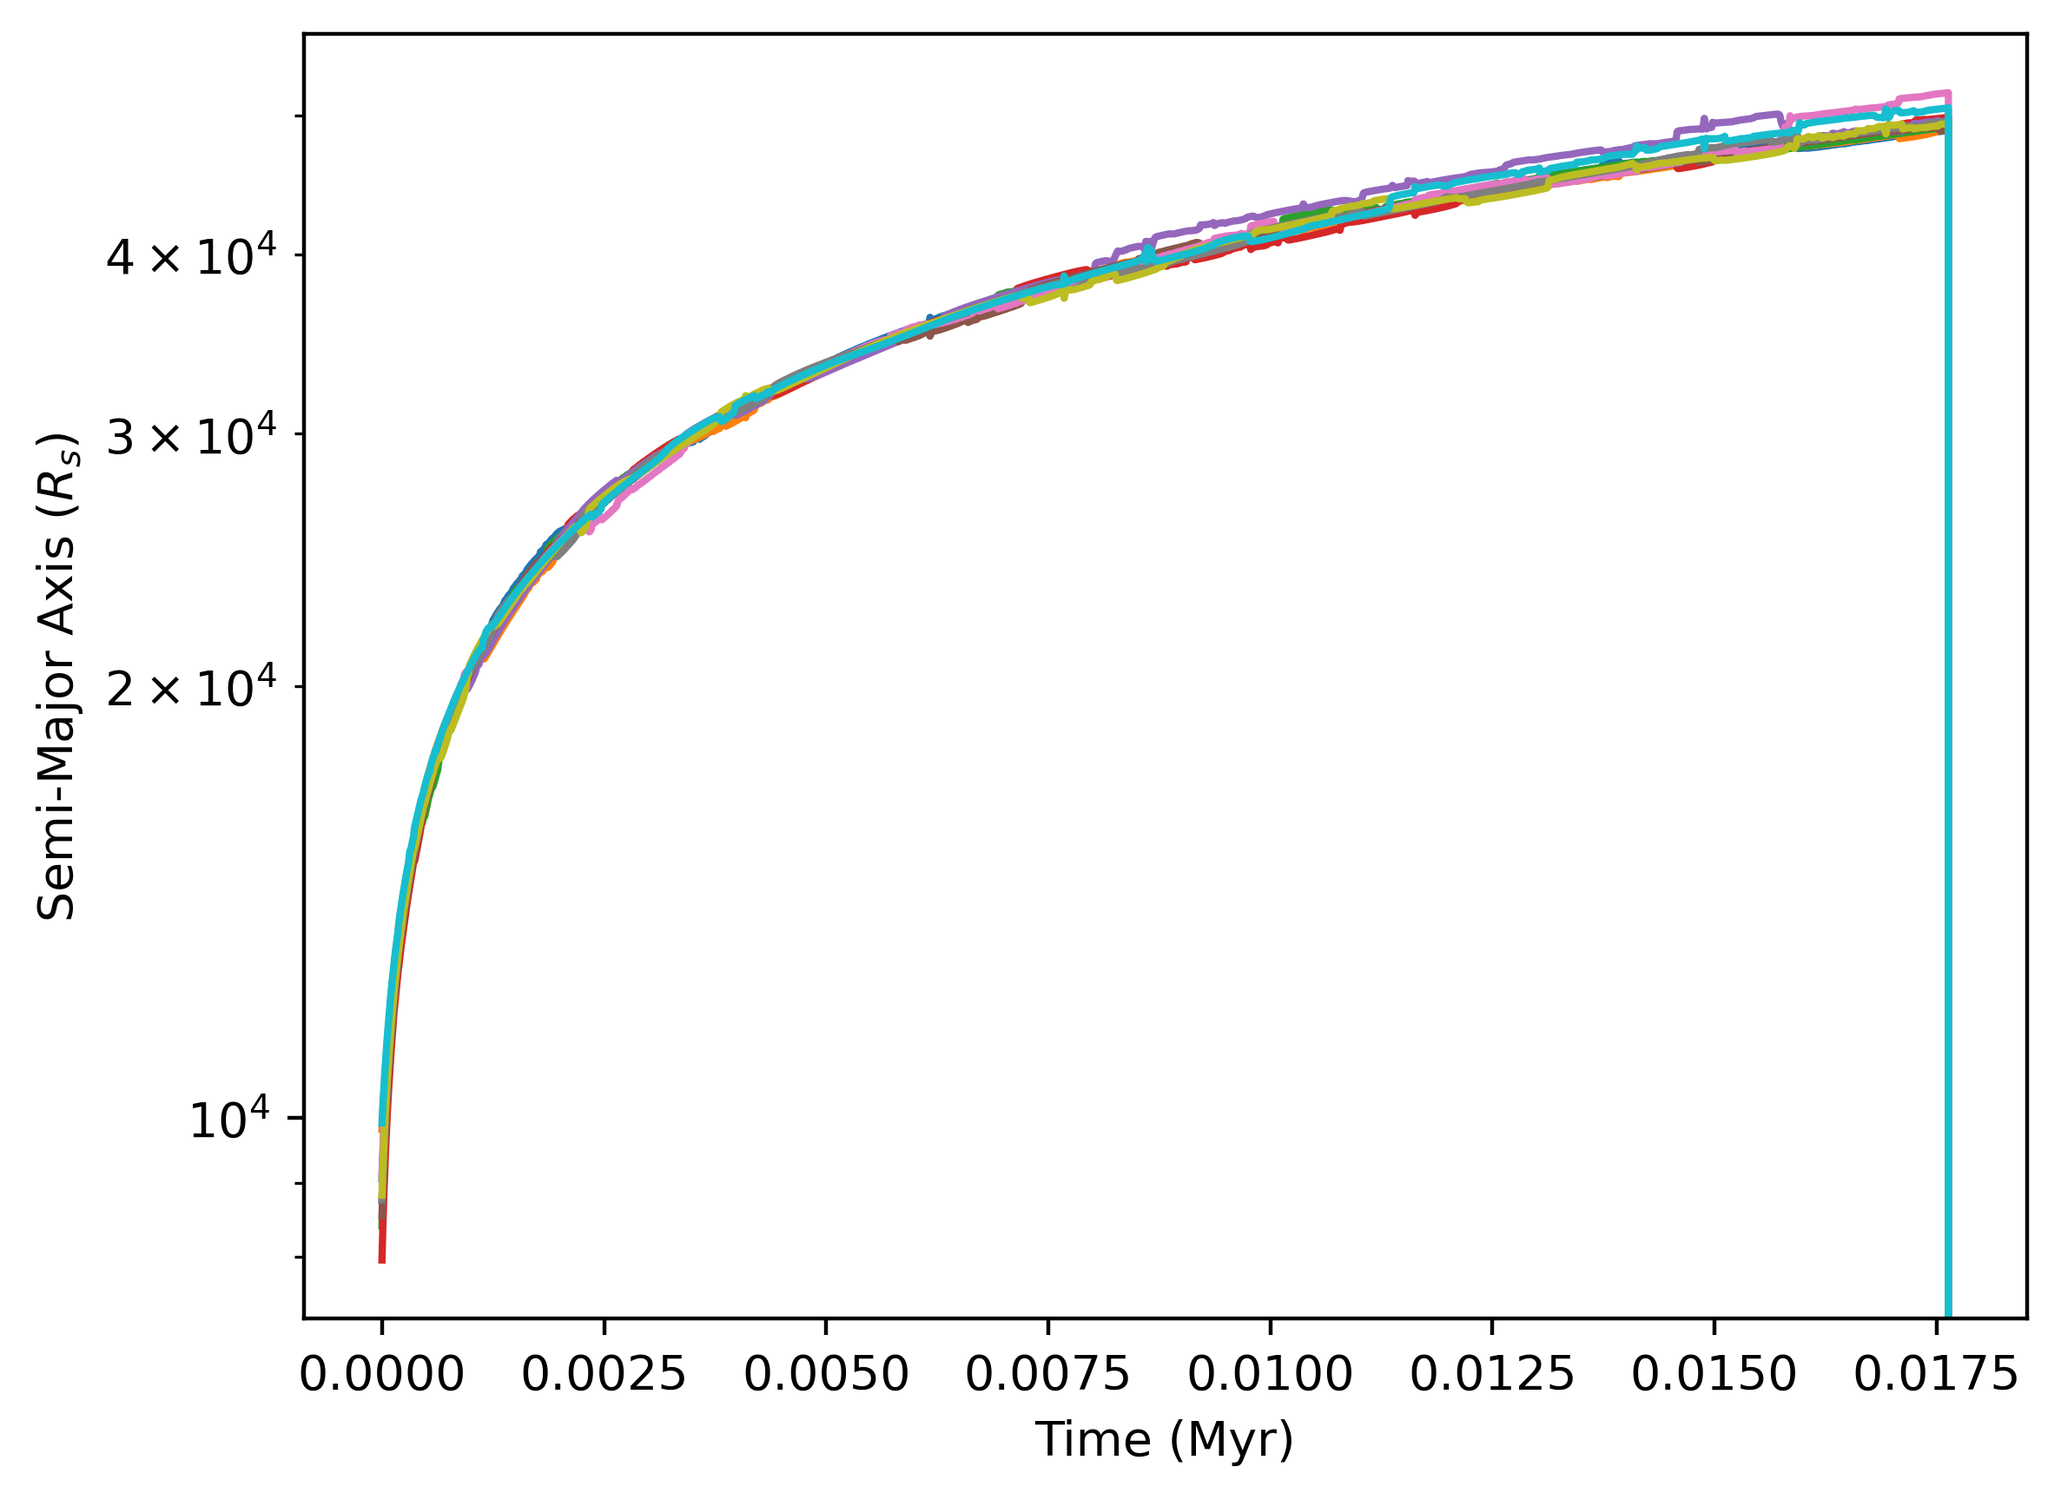
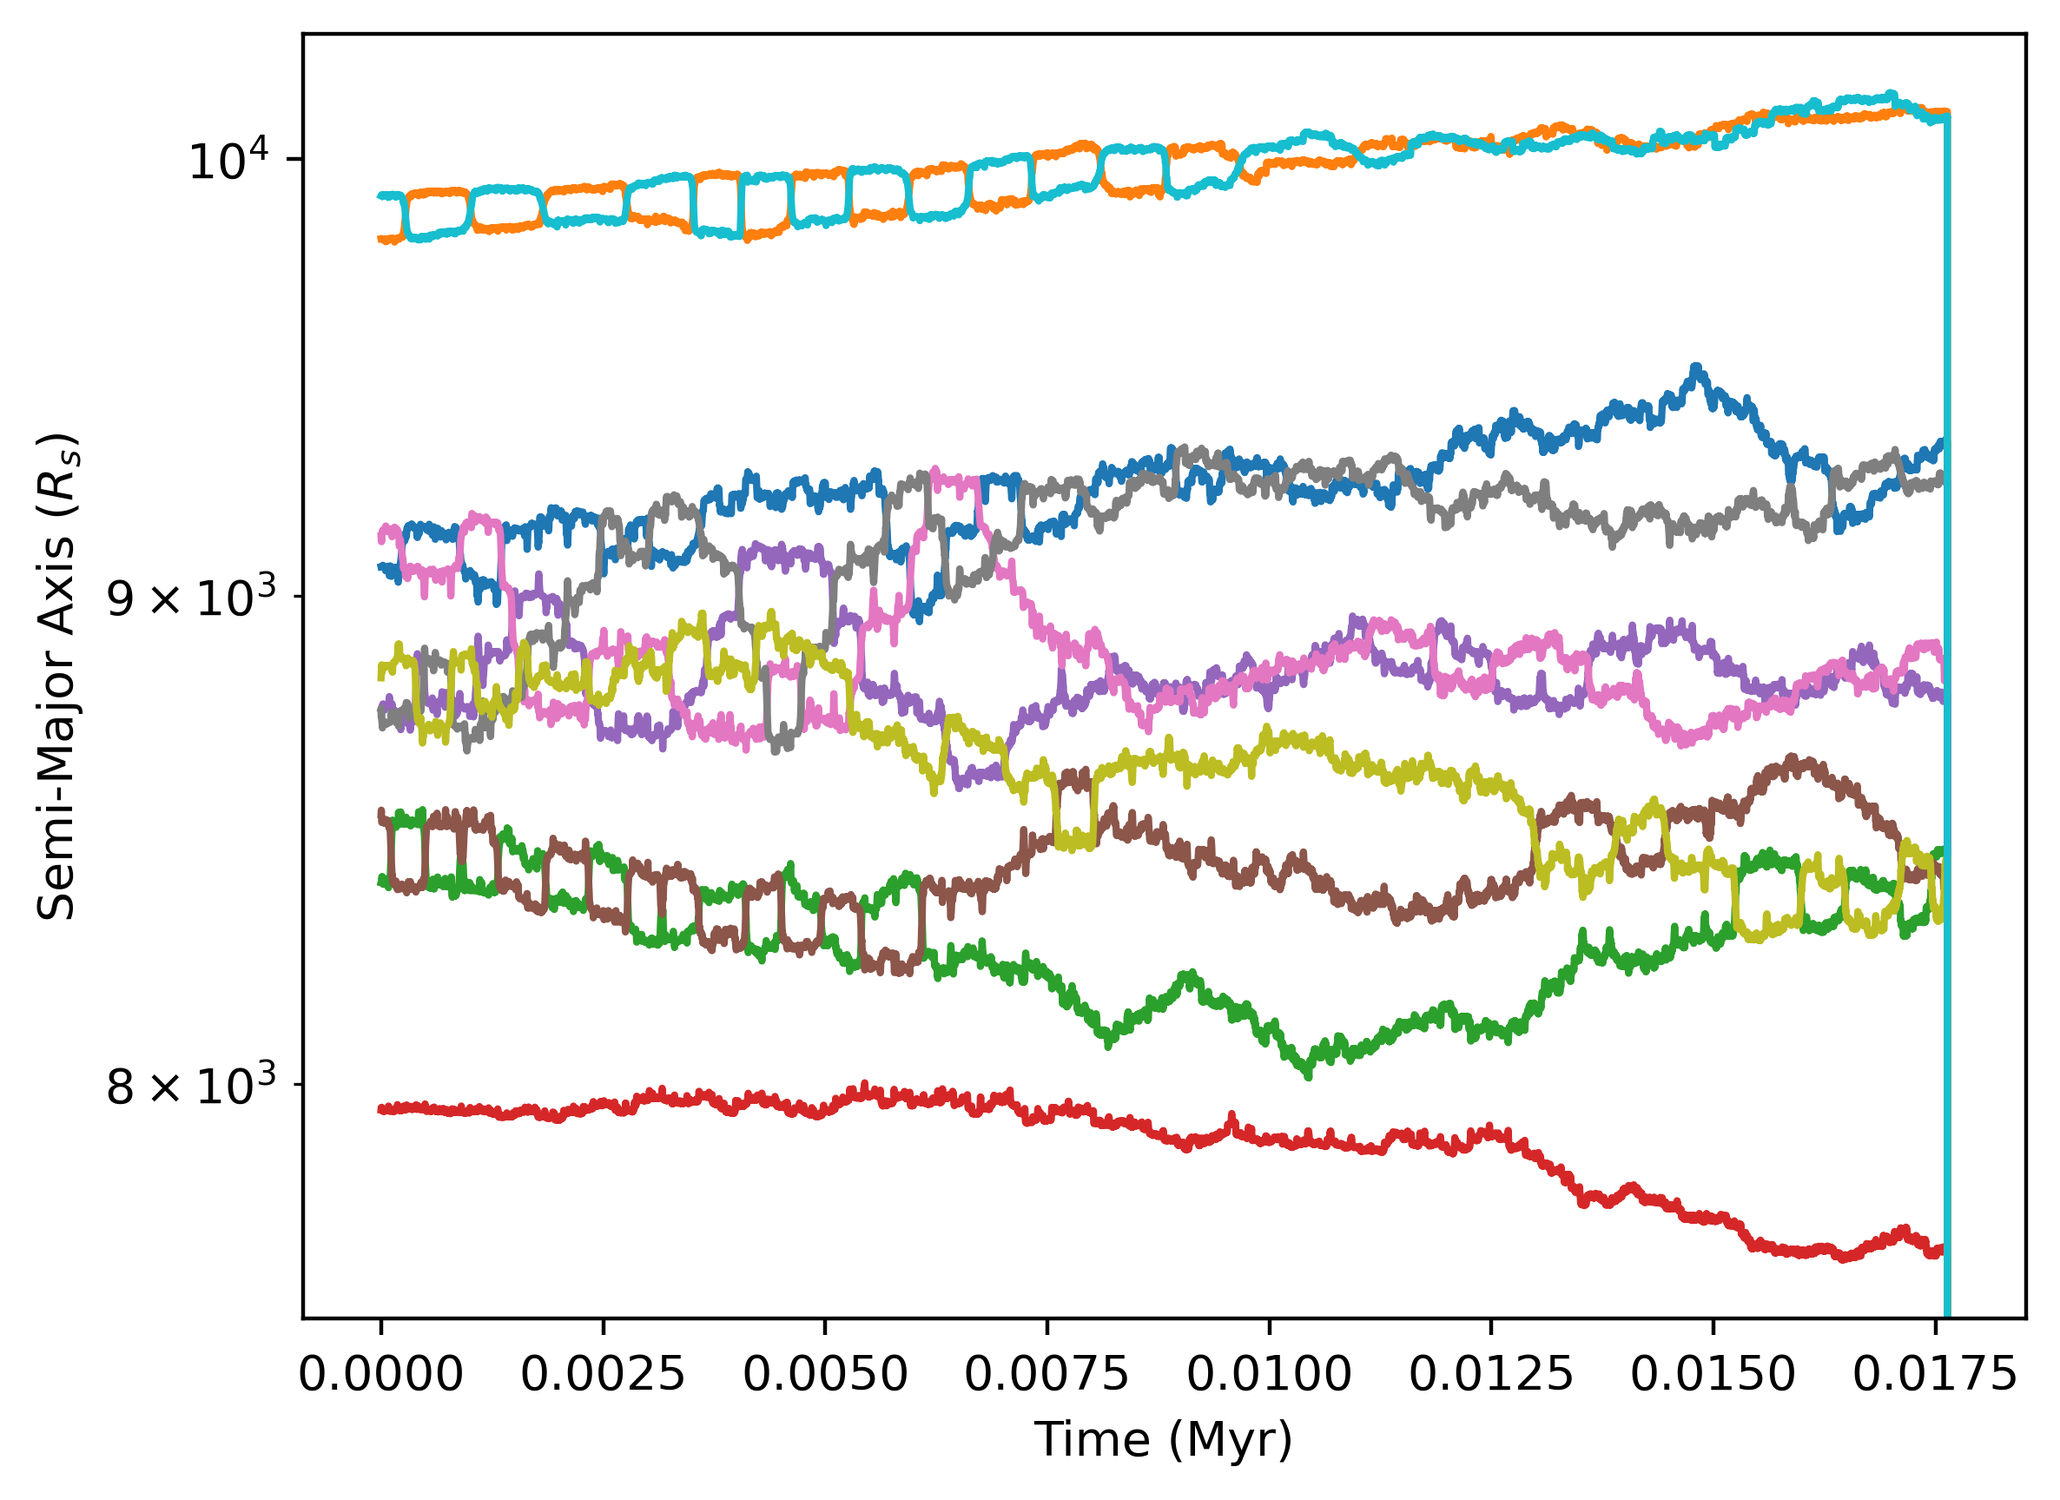
non-dimensionalised agn disk model

diff --git a/N-Body_Code/CommonTools.py b/N-Body_Code/CommonTools.py
@@ -11,6 +11,179 @@ import matplotlib.pyplot as plt
 from matplotlib import animation
 import time
 
+# class AGNDisk(object):
+#     def __init__(self, smbhmass, lenscale):
+#         '''
+#         Parameters
+#         ----------
+#         smbhmass : float
+#             Mass of the SMBH in units of solar masses.
+#         lenscale : float
+#             Characteristic length scale of the simulation (units of pc)
+#         '''
+#         self.mass = smbhmass    # sol masses
+#         self.mass_ratio = smbhmass / 1e8
+#         self.r_g = 4.3e-3 * self.mass / 9e10 # GM/c^2 in units of pc
+        
+#         self.lenscale = lenscale    # pc
+#         self.lenscale_m = lenscale * 3.086e16   # m
+#         self.lenscale_rs = self.lenscale / (2 * self.r_g)
+#         self.timescale = np.sqrt(self.lenscale_m**3 / (4.3e-3 * self.mass * 3.086e16 * 1000**2))   # s
+#         self.velscale = np.sqrt(4.3e-3 * self.mass / self.lenscale) * 1000  # m/s
+#         self.massscale = self.mass * 1.98e30
+        
+#         # self.timescale = time_convert(1, self.mass, lenscale) * 31536000000000.0    # timescale in seconds
+    
+    
+#     def migration_ts(self, mass, radius):
+#         '''McKernan et al (2018)'''
+#         surf_dens_ratio = 10**5 / self.disk_surfdens(radius) # (sigma / 10^5)^-1
+#         mass_ratio = 5 / mass # (mass / 5M_odot)^-1
+#         scale_height_ratio = (self.disk_aspectratio(radius) / 0.02)**2 # assume center of mass radius is just orbital radius, i.e. M_smbh >> M_bh
+#         orbit_ratio = (radius / (10**4 * self.r_g))**(-1/2)
+#         ts = 38 * orbit_ratio * mass_ratio * scale_height_ratio * surf_dens_ratio * self.mass_ratio**(3/2)
+#         return ts
+    
+#     def get_forces(self, mass, position, vel):
+#         '''
+#         Parameters
+#         ----------
+#         mass : float
+#             Mass of the migrating object
+#         position : (1x3) np.array
+#             Position (x, y, z) in units of Schwarzschild radii from the origin SMBH
+#         # radius : float
+#         #     Radius from the SMBH in units of its Schwarzschild radius.
+#         '''
+#         x, y, z = position
+#         radius = np.linalg.norm(position)
+#         # radial_vec = np.array([x, y, 0]) / radius
+#         theta_vec = np.array([-y, x, 0]) / radius
+#         nondim_mig = self.mig_force(mass, radius) * theta_vec * self.lenscale_m / (self.timescale**2 * mass * self.massscale)
+#         # nondim_mig = 0
+#         # nondim_mig = 0
+#         # nondim_damp = self.damp_force(mass, position, vel)
+#         nondim_damp = self.damp_force(mass, position, vel) * self.lenscale_m / self.timescale
+#         print(nondim_mig, nondim_damp)
+        
+#         return nondim_mig + nondim_damp
+    
+#     def mig_force(self, mass, radius):
+#         '''
+#         Parameters
+#         ----------
+#         mass : float
+#             Mass of the migrating object in units of solar masses.
+#         radius : float
+#             Radius from the SMBH in N-Body units.
+#         '''
+#         stefboltz = 5.67 * 10**-8
+#         q = mass / self.mass    # mass ratio of the migrator to the SMBH
+#         # pc_to_m = 3.086 * 1e16
+#         gamma = 5/3     # adiabatic index
+#         c_v = 14.304    # specific heat capacity of hydrogen H2 gas
+        
+#         logr = np.log10(radius * self.lenscale_rs)  # find log(radius) where radius is in units of SMBH Schwarzschild radii
+#         radius_m = radius * self.lenscale_m
+#         Sigma = self.disk_surfdens(logr)
+#         rotvel = self.disk_rotvel(logr)
+#         asp_ratio = self.disk_aspectratio(logr)
+#         tau = self.disk_opacity(logr) * Sigma / 2  # tau = kappa * Sigma / 2
+#         tau_eff = 3 * tau / 8 + np.sqrt(3) / 4 + 1 / (4 * tau)
+#         # print(tau, tau_eff)
+        
+#         # alpha = - d(ln Sigma)/d(ln r)
+#         if logr <= 3:
+#             alpha = - np.log(10)
+#         else:
+#             alpha = np.log(10) * 5/3 
+#         # beta = - d(ln T)/d(ln r)
+#         if logr <= 2.8:
+#             beta = np.log(10) / 2.3 
+#         else:
+#             beta = np.log(10) * 5/6
+#         xi = beta - (gamma - 1) * alpha
+        
+#         Theta = (c_v * Sigma * rotvel * tau_eff) / (12 * np.pi * stefboltz * self.disk_temp(logr)**3)
+#         # print(Theta)
+#         Gamma_0 = (q / asp_ratio)**2 * Sigma * radius**4 * rotvel**2
+#         Gamma_iso =  -0.85 - alpha - 0.9 * beta
+#         Gamma_ad = (-0.85 - alpha - 1.7 * beta + 7.9 * xi / gamma) / gamma
+        
+#         Gamma = Gamma_0 * (Gamma_ad * Theta**2 + Gamma_iso) / (Theta + 1)**2
+#         # print(Gamma_0, Gamma_ad, Gamma_iso, Gamma)
+#         return Gamma / radius_m
+    
+#     def damp_force(self, mass, position, vel):
+#         '''
+#         Parameters
+#         ----------
+#         radius : float
+#             Radius from the SMBH in N-Body units.
+#         '''
+#         radius = np.linalg.norm(position)
+#         logr = np.log10(radius * self.lenscale_rs)  # log(radius) in schwarzschild radii    
+#         a = semi_major_axis(position, vel) * self.lenscale_m    # convert semi-major axis to m
+#         h = self.disk_aspectratio(logr)
+#         tdamp = (self.mass**2 * h**4) / (mass * self.disk_surfdens(logr) * a**2 * self.disk_rotvel(logr)) * 1.98e30
+#         e = np.linalg.norm(np.cross(vel, np.cross(position, vel)) - position / radius)        # https://astronomy.stackexchange.com/questions/29005/calculation-of-eccentricity-of-orbit-from-velocity-and-radius
+#         # print(e)
+#         eps = e / h
+#         t_e = (tdamp / 0.78) * (1 - 0.14 * eps**2 + 0.06 * eps**3) 
+#         f_damp = -2 * np.dot(position, vel) * position / (radius**2 * t_e)
+#         return f_damp
+    
+    
+#     def disk_temp(self, logr):
+#         ''' Returns units of K'''
+#         if logr <= 2.8:
+#             return 10**(-1/2.3 * logr + 6.217)
+#         else:
+#             return 10**(-5/6 * logr + 22/3)
+#     def disk_surfdens(self, logr):
+#         '''+1 in the power to go from g/cm^2 to kg/m^2
+#         Returns units of kg.m^-2'''
+#         if logr <= 3:
+#             return 10**(logr + 3 + 1)
+#         else:
+#             return 10**(-5/3 * logr + 11 + 1)
+#     def disk_rotvel(self, logr):
+#         '''Returns units of m/s'''
+#         v = np.sqrt(4.3 * 10**-3 * self.mass / (10**logr * 2 * self.r_g)) * 1000
+#         # print('rotvel=', v)
+#         return v
+#     def disk_aspectratio(self, logr):
+#         '''Aspect ratio of scale height: h = H / r. Unitless.'''
+#         if logr <= 3:
+#             return 10**(-2/3 * logr - 1/3)
+#         else:
+#             return 10**(0.5 * logr - 3.5)
+        
+#     def disk_opacity(self, logr):
+#         '''-1 in the power to convert from cm^2/g to m^2/kg. Units are in m^2/kg'''
+#         if logr <= 4.3:
+#             return 10**(-0.5 - 1)
+#         elif 4.3 < logr < 4.8:
+#             return 10**(-5.6 * logr + 23.58 - 1)
+#         else:
+#             return 10**(-3.3 - 1)
+        
+#     def disk_optdepth(self, logr):
+#         '''Unitless?'''
+#         if logr <= 3:
+#             return 10**(logr + 2)
+#         else:
+#             return 10**(-2.5 * logr + 12.5)
+        
+        
+#     # def disk_toomre(self, radius):
+#     #     ''''''
+#     #     logr = np.log10(radius)
+#     #     if logr >= -2:
+#     #         return 1 
+#     #     else:
+#     #         return 10**(-5 * logr - 10)
+
 class AGNDisk(object):
     def __init__(self, smbhmass, lenscale):
         '''
@@ -57,36 +230,37 @@ class AGNDisk(object):
         '''
         x, y, z = position
         radius = np.linalg.norm(position)
-        # radial_vec = np.array([x, y, 0]) / radius
+        radial_vec = np.array([x, y, 0]) / radius
         theta_vec = np.array([-y, x, 0]) / radius
-        nondim_mig = self.mig_force(mass, radius)
-        # nondim_damp = self.damp_force(mass, position, vel)
-        nondim_damp = self.damp_force(mass, position, vel)
-        print(nondim_mig, nondim_damp)
-        return  nondim_mig * theta_vec + nondim_damp
+        nondim_mig = self.mig_force(mass, radius) * theta_vec
+        nondim_damp = self.damp_force(mass, position, vel) * radial_vec
+        # print(nondim_mig, nondim_damp)
+        
+        return nondim_mig + nondim_damp
     
     def mig_force(self, mass, radius):
         '''
         Parameters
         ----------
         mass : float
-            Mass of the migrating object in units of solar masses.
+            Mass of the migrating object in N-body units.
         radius : float
             Radius from the SMBH in N-Body units.
         '''
-        stefboltz = 5.67 * 10**-8
+        stefboltz = 5.67 * 10**-8 * self.lenscale_m**2 / self.timescale
         q = mass / self.mass    # mass ratio of the migrator to the SMBH
         # pc_to_m = 3.086 * 1e16
         gamma = 5/3     # adiabatic index
-        c_v = 14.304    # specific heat capacity of hydrogen H2 gas
+        c_v = 14.304 * self.massscale    # specific heat capacity of hydrogen H2 gas
         
         logr = np.log10(radius * self.lenscale_rs)  # find log(radius) where radius is in units of SMBH Schwarzschild radii
-        radius_m = radius * self.lenscale_m
+        # radius_m = radius * self.lenscale_m
         Sigma = self.disk_surfdens(logr)
         rotvel = self.disk_rotvel(logr)
         asp_ratio = self.disk_aspectratio(logr)
-        tau = self.disk_optdepth(logr) * Sigma / 2  # tau = kappa * Sigma / 2
+        tau = self.disk_opacity(logr) * Sigma / 2  # tau = kappa * Sigma / 2
         tau_eff = 3 * tau / 8 + np.sqrt(3) / 4 + 1 / (4 * tau)
+        # print(tau, tau_eff)
         
         # alpha = - d(ln Sigma)/d(ln r)
         if logr <= 3:
@@ -101,11 +275,14 @@ class AGNDisk(object):
         xi = beta - (gamma - 1) * alpha
         
         Theta = (c_v * Sigma * rotvel * tau_eff) / (12 * np.pi * stefboltz * self.disk_temp(logr)**3)
-        Gamma_0 = (q / asp_ratio)**2 * Sigma * radius_m * rotvel**2
-        Gamma_iso = Gamma_0 * (-0.85 - alpha - 0.9 * beta)
-        Gamma_ad = Gamma_0 / gamma * (-0.85 - alpha - 1.7 * beta + 7.9 * xi / gamma)
-        Gamma = (Gamma_ad * Theta**2 + Gamma_iso) / (Theta + 1)**2
-        return Gamma / radius_m
+        print(Theta)
+        Gamma_0 = (q / asp_ratio)**2 * Sigma * radius**4 * rotvel**2
+        Gamma_iso =  -0.85 - alpha - 0.9 * beta
+        Gamma_ad = (-0.85 - alpha - 1.7 * beta + 7.9 * xi / gamma) / gamma
+        
+        Gamma = Gamma_0 * (Gamma_ad * Theta**2 + Gamma_iso) / (Theta + 1)**2
+        # print(Gamma_0, Gamma_ad, Gamma_iso, Gamma)
+        return Gamma / (radius * mass)
     
     def damp_force(self, mass, position, vel):
         '''
@@ -116,9 +293,9 @@ class AGNDisk(object):
         '''
         radius = np.linalg.norm(position)
         logr = np.log10(radius * self.lenscale_rs)  # log(radius) in schwarzschild radii    
-        a = semi_major_axis(position, vel) * self.lenscale_m    # convert semi-major axis to m
+        a = semi_major_axis(position, vel)
         h = self.disk_aspectratio(logr)
-        tdamp = (self.mass**2 * h**4) / (mass * self.disk_surfdens(logr) * a**2 * self.disk_rotvel(logr)) * 1.98e30
+        tdamp = (self.mass**2 * h**4) / (mass * self.disk_surfdens(logr) * a**2 * self.disk_rotvel(logr))
         e = np.linalg.norm(np.cross(vel, np.cross(position, vel)) - position / radius)        # https://astronomy.stackexchange.com/questions/29005/calculation-of-eccentricity-of-orbit-from-velocity-and-radius
         # print(e)
         eps = e / h
@@ -137,14 +314,15 @@ class AGNDisk(object):
         '''+1 in the power to go from g/cm^2 to kg/m^2
         Returns units of kg.m^-2'''
         if logr <= 3:
-            return 10**(logr + 3 + 1)
+            val = 10**(logr + 3 + 1)
         else:
-            return 10**(-5/3 * logr + 11 + 1)
+            val = 10**(-5/3 * logr + 11 + 1)
+        return val * self.lenscale_m**2 / self.massscale
     def disk_rotvel(self, logr):
         '''Returns units of m/s'''
         v = np.sqrt(4.3 * 10**-3 * self.mass / (10**logr * 2 * self.r_g)) * 1000
         # print('rotvel=', v)
-        return v
+        return v / self.velscale
     def disk_aspectratio(self, logr):
         '''Aspect ratio of scale height: h = H / r. Unitless.'''
         if logr <= 3:
@@ -155,11 +333,12 @@ class AGNDisk(object):
     def disk_opacity(self, logr):
         '''-1 in the power to convert from cm^2/g to m^2/kg. Units are in m^2/kg'''
         if logr <= 4.3:
-            return 10**(-0.5 - 1)
+            val = 10**(-0.5 - 1)
         elif 4.3 < logr < 4.8:
-            return 10**(-5.6 * logr + 23.58 - 1)
+            val = 10**(-5.6 * logr + 23.58 - 1)
         else:
-            return 10**(-3.3 - 1)
+            val =  10**(-3.3 - 1)
+        return val * self.massscale / self.lenscale_m**2
         
     def disk_optdepth(self, logr):
         '''Unitless?'''
@@ -283,7 +462,7 @@ def AGNBHICs(masses, smbhmass, seed=4080):
     
     # uniformly (and randomly) distribute points in the unit disk
     theta = np.random.uniform(0, 2*np.pi, N)
-    dists = np.random.uniform(0.5, 1, N)
+    dists = np.random.uniform(0.5**3, 1, N)
     R = 1 * np.cbrt(dists)
     x = R * np.cos(theta)
     y = R * np.sin(theta)
@@ -406,7 +585,13 @@ def semi_major_axis(position, velocity):
     vel_mag = np.linalg.norm(velocity)
     a = - radius / (radius * vel_mag**2 - 2)    # https://physics.stackexchange.com/questions/295431/how-can-i-calculate-the-semi-major-axis-from-velocity-position-and-pull
     return a
-    
+
+def eccentricity(position, velocity):
+    '''
+    '''
+    radius = np.linalg.norm(position)
+    e = np.linalg.norm(np.cross(velocity, np.cross(position, velocity)) - position / radius)
+    return e
     
     
 

diff --git a/N-Body_Code/nbodytest.py b/N-Body_Code/nbodytest.py
@@ -14,12 +14,12 @@ import time
 from CommonTools import *
 
 
-Tmax = 10000
+Tmax = 2000
 dt = 0.1
 nt = int((Tmax - 0) / dt) + 1
 NsBH = 10
 NsBHMasses = np.ones(NsBH) * 10
-SMBHMass = 4e6
+SMBHMass = 1e8
 r_s = 2 * 4.3 * 10**-3 * SMBHMass / 9e10
 Nr_s = 1e4
 lenscale = Nr_s * r_s
@@ -31,17 +31,20 @@ positions, velocities = perform_sim(Tmax, dt, pos, masses, vel, softening, agn, 
 times = np.linspace(0, Tmax, nt)
 real_times = time_convert(times, SMBHMass + sum(NsBHMasses), lenscale)
 
-# animate_sim(positions, 'mig_test', 20, every=10, times=[True, real_times])
+animate_sim(positions, 'mig_test', 20, every=10, times=[True, real_times])
 
 
-fig, ax = plt.subplots()
+fig, axes = plt.subplots(nrows=2)
 step = 5
 for i in range(1, 11):
     radii = np.array([np.linalg.norm(positions[i, :, j]) for j in range(0, nt, step)])
     vel_mags = np.array([np.linalg.norm(velocities[i, :, j]) for j in range(0, nt, step)])
     semi_majors = - radii / (radii * vel_mags**2 - 2)
-    ax.plot(real_times[::step], semi_majors * Nr_s)
-ax.set(yscale='log', xlabel="Time (Myr)", ylabel="Semi-Major Axis ($R_s$)")
+    eccentricities = np.array([eccentricity(positions[i, :, j], velocities[i, :, j]) for j in range(0, nt, step)])
+    axes[0].plot(real_times[::step], semi_majors * Nr_s)
+    axes[1].plot(real_times[::step], eccentricities, lw=0.5)
+axes[0].set(yscale='log', ylabel="Semi-Major Axis ($R_s$)")
+axes[1].set(xlabel="Time (Myr)", ylabel='Eccentricity')
 # fig.savefig('NBodyTest.png', dpi=400, bbox_inches='tight')
-# fig.savefig('MigrationTest.png', dpi=400, bbox_inches='tight')
-fig.savefig('CaptureTest.png', dpi=400, bbox_inches='tight')
+fig.savefig('MigrationTest.png', dpi=400, bbox_inches='tight')
+# fig.savefig('CaptureTest2.png', dpi=400, bbox_inches='tight')
